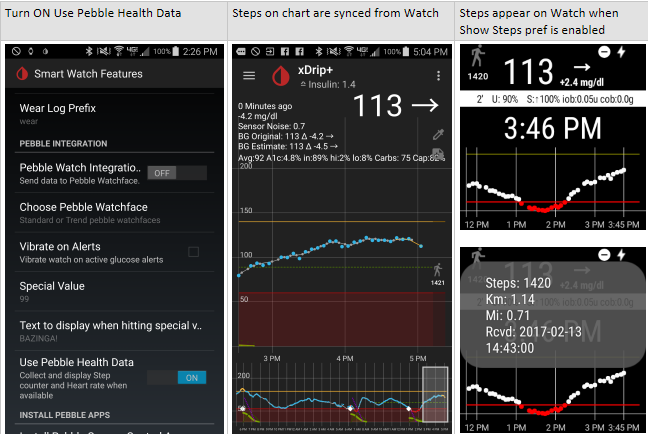
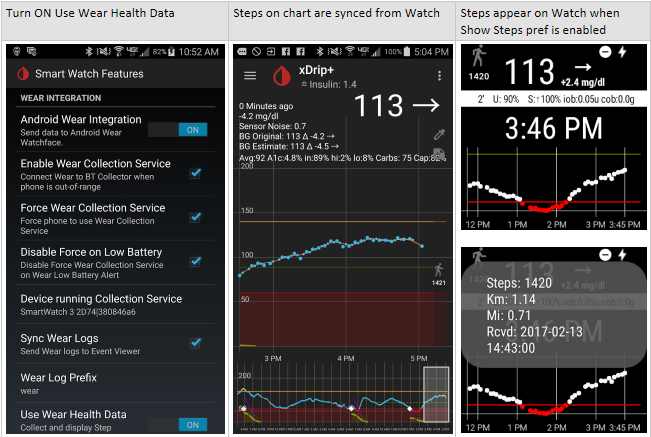
Fixes to sony.com.stepservice;Add Wear use_pebble_health pref on phone; add Steps, Carbs, Insulin, StdDev to History page.

diff --git a/wear/src/main/java/com/eveningoutpost/dexdrip/ListenerService.java b/wear/src/main/java/com/eveningoutpost/dexdrip/ListenerService.java
@@ -283,9 +283,6 @@ public class ListenerService extends WearableListenerService implements GoogleAp
                                                 sendMessagePayload(node, "SYNC_STEP_SENSOR_PATH", SYNC_STEP_SENSOR_PATH, datamap.toByteArray());
                                             }
                                         }
-                                        if (showSteps || sync_step_counter) {
-                                            resetCounters(true);//restart measurements on new day
-                                        }
                                         sendMessagePayload(node, "WEARABLE_RESEND_PATH", path, payload);
                                         break;
                                 }
@@ -305,6 +302,11 @@ public class ListenerService extends WearableListenerService implements GoogleAp
                         googleApiClient.connect();
                     } else {
                         googleApiConnect();
+                    }
+                }
+                if (showSteps || sync_step_counter) {
+                    if (JoH.ratelimit("step-sensor-restart", 60)) {
+                        restartMeasurement();//restart measurements on new day
                     }
                 }
                 return null;
@@ -1838,14 +1840,14 @@ public class ListenerService extends WearableListenerService implements GoogleAp
 
     private void setupStepSensor() {
         if (mPrefs.getBoolean("use_wear_health", false) || mPrefs.getBoolean("showSteps", false)) {
-            Log.d(TAG, "Start Step Counter Sensor");
+            Log.e(TAG, "Start Step Counter Sensor");
             //startService(new Intent(this, SensorService.class));
-            resetCounters(false);
+            resetCounters();
             stopMeasurement();
             startMeasurement();
         }
         else {
-            Log.d(TAG, "Stop Step Counter Sensor");
+            Log.e(TAG, "Stop Step Counter Sensor");
             //stopService(new Intent(this, SensorService.class));
             stopMeasurement();
         }
@@ -1854,26 +1856,24 @@ public class ListenerService extends WearableListenerService implements GoogleAp
         @Override
         public void onSensorChanged(SensorEvent event) {
             long t = System.currentTimeMillis();
-            long timeAgo = t - last_movement_timestamp;
 
             int type = event.sensor.getType();
             Log.d(TAG, "onSensorChanged Sensor " + type + " name = " + event.sensor.getStringType());
             Log.d(TAG, "onSensorChanged accuracy = " + event.accuracy);
-            Log.d(TAG, "onSensorChanged MaxDelay = " + event.sensor.getMaxDelay());
-            Log.d(TAG, "onSensorChanged t = " + t + " text = " + JoH.dateTimeText(t));
-            Log.d(TAG, "onSensorChanged last_movement_timestamp = " + last_movement_timestamp + " text = " + JoH.dateTimeText(last_movement_timestamp));
-            Log.d(TAG, "onSensorChanged timeAgo = " + timeAgo);
+            Log.e(TAG, "onSensorChanged MaxDelay = " + event.sensor.getMaxDelay());
+            Log.e(TAG, "onSensorChanged t = " + t + " text = " + JoH.dateTimeText(t));
+            Log.e(TAG, "onSensorChanged last_movement_timestamp = " + last_movement_timestamp + " text = " + JoH.dateTimeText(last_movement_timestamp));
 
             // Calculate the delay from when event was recorded until it was received here in ms
             // Event timestamp is recorded in us accuracy, but ms accuracy is sufficient here
             long delay = System.currentTimeMillis() - (event.timestamp / 1000000L);//Timestamp when sensor was registered
-            Log.d(TAG, "onSensorChanged delay = " + delay + " JoH.DateTimeText(delay) = " + JoH.dateTimeText(delay) + " (delay + (event.timestamp / 1000000L)) = " + delay + (event.timestamp / 1000000L) + " text= " + JoH.dateTimeText(delay + (event.timestamp / 1000000L)));
+            Log.e(TAG, "onSensorChanged delay = " + delay + " JoH.DateTimeText(delay) = " + JoH.dateTimeText(delay) + " (delay + (event.timestamp / 1000000L)) = " + delay + (event.timestamp / 1000000L) + " text= " + JoH.dateTimeText(delay + (event.timestamp / 1000000L)));
 
             PebbleMovement last = PebbleMovement.last();
             boolean sameDay = last != null ? isSameDay(t, last.timestamp) : false;
             if (!sameDay) {
                 initCounters();
-                Log.d(TAG, "onSensorChanged initCounters initCounters mSteps = " + mSteps + " mCounterSteps = " + mCounterSteps + " mPreviousCounterSteps = " + mPreviousCounterSteps + " last_movement_timestamp = " + last_movement_timestamp);
+                Log.e(TAG, "onSensorChanged initCounters initCounters mSteps = " + mSteps + " mCounterSteps = " + mCounterSteps + " mPreviousCounterSteps = " + mPreviousCounterSteps + " last_movement_timestamp = " + last_movement_timestamp);
             }
             if (mCounterSteps < 1) {
                 // initial value
@@ -1885,7 +1885,7 @@ public class ListenerService extends WearableListenerService implements GoogleAp
             // This is needed to keep the counter consistent across rotation changes.
             mSteps = mSteps + mPreviousCounterSteps;
             PersistentStore.setLong(pref_msteps, (long)mSteps);
-            Log.d(TAG, "onSensorChanged Total step count: " + mSteps + " mCounterSteps: " + mCounterSteps + " mPreviousCounterSteps: " + mPreviousCounterSteps + " event.values[0]: " + event.values[0]);// + " Delay: " + delayString);
+            Log.e(TAG, "onSensorChanged Total step count: " + mSteps + " mCounterSteps: " + mCounterSteps + " mPreviousCounterSteps: " + mPreviousCounterSteps + " event.values[0]: " + event.values[0]);
 
             if (last_movement_timestamp < t) {//KS BUG SW3 seems to set event.timestamp to time when sensor listener is registered
                 Log.d(TAG, "onSensorChanged Movement for mSteps: " + mSteps + " event.values[0]: " + event.values[0] +
@@ -1893,19 +1893,19 @@ public class ListenerService extends WearableListenerService implements GoogleAp
                         " received: " + JoH.dateTimeText(t) + " last_movement_timestamp: " + JoH.dateTimeText(last_movement_timestamp)
                 );
                 if (last_movement_timestamp == 0 || (sameDay && last != null && last.metric == mSteps)) {//skip initial movement or duplicate steps
-                    Log.d(TAG, "onSensorChanged Initial sensor movement! Skip initial movement record, or duplicate record. last.metric=" + (last != null ? last.metric : "null"));
+                    Log.e(TAG, "onSensorChanged Initial sensor movement! Skip initial movement record, or duplicate record. last.metric=" + (last != null ? last.metric : "null"));
                 }
                 else {
                     final PebbleMovement pm = PebbleMovement.createEfficientRecord(t, mSteps);//event.timestamp * 1000, (int) event.values[0]
-                    Log.d(TAG, "Saving Movement: " + pm.toS());
+                    Log.e(TAG, "Saving Movement: " + pm.toS());
                 }
                 last_movement_timestamp = t;
                 PersistentStore.setLong(pref_last_movement_timestamp, last_movement_timestamp);
-                Log.d(TAG, "onSensorChanged sendLocalMessage mSteps: " + mSteps + " t: " + JoH.dateTimeText(t) + " last_movement_timestamp: " + JoH.dateTimeText(last_movement_timestamp));
+                Log.e(TAG, "onSensorChanged sendLocalMessage mSteps: " + mSteps + " t: " + JoH.dateTimeText(t) + " last_movement_timestamp: " + JoH.dateTimeText(last_movement_timestamp));
                 sendSensorLocalMessage(mSteps, t);
             }
             else {
-                Log.d(TAG, "onSensorChanged last_movement_timestamp > t! Reset last_movement_timestamp to current time.");
+                Log.e(TAG, "onSensorChanged last_movement_timestamp > t! Reset last_movement_timestamp to current time.");
                 last_movement_timestamp = t;
                 PersistentStore.setLong(pref_last_movement_timestamp, last_movement_timestamp);
             }
@@ -1921,7 +1921,7 @@ public class ListenerService extends WearableListenerService implements GoogleAp
         curCal.setTimeInMillis(t);
         Calendar lastCal = Calendar.getInstance();
         lastCal.setTimeInMillis(last);
-        Log.d(TAG, "isSameDay Sensor curCal.DAY_OF_MONTH=" + curCal.get(Calendar.DAY_OF_MONTH) + " lastCal.DAY_OF_MONTH=" + lastCal.get(Calendar.DAY_OF_MONTH) + " t=" + JoH.dateTimeText(t) + " last.timestamp=" + JoH.dateTimeText(last) + " " + last);
+        Log.e(TAG, "isSameDay Sensor curCal.DAY_OF_MONTH=" + curCal.get(Calendar.DAY_OF_MONTH) + " lastCal.DAY_OF_MONTH=" + lastCal.get(Calendar.DAY_OF_MONTH) + " t=" + JoH.dateTimeText(t) + " last.timestamp=" + JoH.dateTimeText(last) + " " + last);
         if (curCal.get(Calendar.DAY_OF_MONTH) == lastCal.get(Calendar.DAY_OF_MONTH) &&
                 curCal.get(Calendar.YEAR) == lastCal.get(Calendar.YEAR) &&
                 curCal.get(Calendar.MONTH) == lastCal.get(Calendar.MONTH) ) {
@@ -1947,16 +1947,16 @@ public class ListenerService extends WearableListenerService implements GoogleAp
             if (stepCounterSensor != null) {
                 if (mPrefs.getBoolean("showSteps", false)) {
                     int delay = Integer.parseInt(mPrefs.getString("step_delay_time", "10"));
-                    Log.d(TAG, "startMeasurement delay " + delay + " seconds.");
-                    Log.d(TAG, "startMeasurement Event listener for step counter sensor registered with a max delay of " + delay + " seconds.");
-                    mSensorManager.registerListener(mListener, stepCounterSensor, SensorManager.SENSOR_DELAY_NORMAL, delay * BATCH_LATENCY_1s);
+                    Log.e(TAG, "startMeasurement delay " + delay + " seconds.");
+                    Log.e(TAG, "startMeasurement Event listener for step counter sensor registered with a max delay of " + delay + " seconds.");
+                    mSensorManager.registerListener(mListener, stepCounterSensor, SensorManager.SENSOR_DELAY_UI, delay * BATCH_LATENCY_1s);
                 }
                 else {
-                    Log.d(TAG, "startMeasurement Event listener for step counter sensor registered with a max delay of " + BATCH_LATENCY_400s);
+                    Log.e(TAG, "startMeasurement Event listener for step counter sensor registered with a max delay of " + BATCH_LATENCY_400s);
                     mSensorManager.registerListener(mListener, stepCounterSensor, SensorManager.SENSOR_DELAY_NORMAL, BATCH_LATENCY_400s);
                 }
             } else {
-                Log.d(TAG, "startMeasurement No Step Counter Sensor found");
+                Log.e(TAG, "startMeasurement No Step Counter Sensor found");
             }
         }
     }
@@ -1969,28 +1969,41 @@ public class ListenerService extends WearableListenerService implements GoogleAp
         }
     }
 
-    private void resetCounters(boolean startMeasurement) {
+    private void restartMeasurement() {
+        PebbleMovement last = PebbleMovement.last();
+        boolean sameDay = last != null ? ListenerService.isSameDay(System.currentTimeMillis(), last.timestamp) : false;
+        if (!sameDay) {
+            initCounters();
+            Log.e(TAG, "restartMeasurement Sensor isSameDay=false initCounters mSteps = " + mSteps + " mCounterSteps = " + mCounterSteps + " mPreviousCounterSteps = " + mPreviousCounterSteps + " last_movement_timestamp = " + JoH.dateTimeText(last_movement_timestamp));
+            stopMeasurement();
+            startMeasurement();
+        } else {
+            Log.e(TAG, "restartMeasurement Sensor isSameDay=true PersistentStore mSteps = " + mSteps + " mCounterSteps = " + mCounterSteps + " mPreviousCounterSteps = " + mPreviousCounterSteps + " last_movement_timestamp = " + JoH.dateTimeText(last_movement_timestamp));
+        }
+    }
+
+    private void resetCounters() {
         //initCounters();
         mSteps = (int) PersistentStore.getLong(pref_msteps);
         last_movement_timestamp = (int) PersistentStore.getLong(pref_last_movement_timestamp);
-        Log.d(TAG, "resetCounters Sensor Enter PersistentStore mSteps = " + mSteps + " mCounterSteps = " + mCounterSteps + " mPreviousCounterSteps = " + mPreviousCounterSteps + " last_movement_timestamp = " + JoH.dateTimeText(last_movement_timestamp));
+        Log.e(TAG, "resetCounters Sensor Enter PersistentStore mSteps = " + mSteps + " mCounterSteps = " + mCounterSteps + " mPreviousCounterSteps = " + mPreviousCounterSteps + " last_movement_timestamp = " + JoH.dateTimeText(last_movement_timestamp));
 
         PebbleMovement last = PebbleMovement.last();
         boolean sameDay = last != null ? ListenerService.isSameDay(System.currentTimeMillis(), last.timestamp) : false;
         if (!sameDay) {
             initCounters();
-            Log.d(TAG, "resetCounters Sensor isSameDay=false initCounters mSteps = " + mSteps + " mCounterSteps = " + mCounterSteps + " mPreviousCounterSteps = " + mPreviousCounterSteps + " last_movement_timestamp = " + JoH.dateTimeText(last_movement_timestamp));
-            if (startMeasurement) {
-                stopMeasurement();
-                startMeasurement();
-            }
+            Log.e(TAG, "resetCounters Sensor isSameDay=false initCounters mSteps = " + mSteps + " mCounterSteps = " + mCounterSteps + " mPreviousCounterSteps = " + mPreviousCounterSteps + " last_movement_timestamp = " + JoH.dateTimeText(last_movement_timestamp));
         } else {
+            mCounterSteps = 0;
             mPreviousCounterSteps = mSteps;
-            Log.d(TAG, "resetCounters Sensor isSameDay=true PersistentStore mSteps = " + mSteps + " mCounterSteps = " + mCounterSteps + " mPreviousCounterSteps = " + mPreviousCounterSteps + " last_movement_timestamp = " + JoH.dateTimeText(last_movement_timestamp));
+            Log.e(TAG, "resetCounters Sensor isSameDay=true PersistentStore mSteps = " + mSteps + " mCounterSteps = " + mCounterSteps + " mPreviousCounterSteps = " + mPreviousCounterSteps + " last_movement_timestamp = " + JoH.dateTimeText(last_movement_timestamp));
         }
     }
 
-    private void initCounters() {
+    private synchronized void initCounters() {
+        long t = System.currentTimeMillis();
+        final PebbleMovement pm = PebbleMovement.createEfficientRecord(t, 0);
+        Log.e(TAG, "initCounters Saving First Movement: " + pm.toS() + " at midnight t=" + JoH.dateTimeText(t));
         mSteps = 0;
         mCounterSteps = 0;
         mPreviousCounterSteps = 0;
@@ -2006,12 +2019,12 @@ public class ListenerService extends WearableListenerService implements GoogleAp
     //Log all available sensors to logcat
     private void logAvailableSensors() {
         final List<android.hardware.Sensor> sensors = mSensorManager.getSensorList(android.hardware.Sensor.TYPE_ALL);
-        Log.d(TAG, "=== LIST AVAILABLE SENSORS ===");
-        Log.d(TAG, String.format(Locale.getDefault(), "|%-35s|%-38s|%-6s|", "SensorName", "StringType", "Type"));
+        Log.e(TAG, "=== LIST AVAILABLE SENSORS ===");
+        Log.e(TAG, String.format(Locale.getDefault(), "|%-35s|%-38s|%-6s|", "SensorName", "StringType", "Type"));
         for (android.hardware.Sensor sensor : sensors) {
             Log.v(TAG, String.format(Locale.getDefault(), "|%-35s|%-38s|%-6s|", sensor.getName(), sensor.getStringType(), sensor.getType()));
         }
-        Log.d(TAG, "=== LIST AVAILABLE SENSORS ===");
+        Log.e(TAG, "=== LIST AVAILABLE SENSORS ===");
     }
 
     @Override

diff --git a/app/src/main/java/com/eveningoutpost/dexdrip/stats/StatsResult.java b/app/src/main/java/com/eveningoutpost/dexdrip/stats/StatsResult.java
@@ -10,6 +10,7 @@ import com.activeandroid.Cache;
 import com.eveningoutpost.dexdrip.UtilityModels.Constants;
 
 import java.text.DecimalFormat;
+import java.util.List;
 
 /**
  * Created by adrian on 23/01/16.
@@ -19,7 +20,14 @@ public class StatsResult {
     private final int in;
     private final int below;
     private final int above;
-    private int total_carbs = -1;
+    private int a1c_ifcc;
+    private double a1c_dcct;
+    private double median;
+    private double mean;
+    private double stdev;
+    private double total_carbs = -1;
+    private double total_insulin = -1;
+    private int total_steps = -1;
     private final double avg;
     private final boolean mgdl;
     private final long from;
@@ -74,13 +82,21 @@ public class StatsResult {
             avg = 0;
         }
 
+        if(getTotalReadings() > 0){
+            cursor= db.rawQuery("select ((count(*)*(sum(calculated_value * calculated_value)) - (sum(calculated_value)*sum(calculated_value)) )/((count(*)-1)*(count(*))) ) from bgreadings  where timestamp >= " + from + " AND timestamp <= " + to + " AND calculated_value > " + DBSearchUtil.CUTOFF + " AND snyced == 0", null);
+            cursor.moveToFirst();
+            stdev = cursor.getDouble(0);
+            stdev = Math.sqrt(stdev);
+            cursor.close();
+        } else {
+            stdev = 0;
+        }
+
         possibleCaptures = (to - from) / (5*60*1000);
         //while already in the next 5 minutes, a package could already have arrived.
         if ((to - from) % (5*60*1000) != 0) possibleCaptures += 1;
 
     }
-
-
 
     public int getAbove() {
         return above;
@@ -98,14 +114,40 @@ public class StatsResult {
         return in;
     }
 
-    public int getTotal_carbs() {
+    public double getTotal_carbs() {
         if (total_carbs < 0) {
             Cursor cursor = Cache.openDatabase().rawQuery("select sum(carbs) from treatments  where timestamp >= " + from + " AND timestamp <= " + to, null);
             cursor.moveToFirst();
-            total_carbs = cursor.getInt(0);
+            total_carbs = cursor.getDouble(0);
             cursor.close();
         }
         return total_carbs;
+    }
+
+    public double getTotal_insulin() {
+        if (total_insulin < 0) {
+            Cursor cursor = Cache.openDatabase().rawQuery("select sum(insulin) from treatments  where timestamp >= " + from + " AND timestamp <= " + to, null);
+            cursor.moveToFirst();
+            total_insulin = cursor.getDouble(0);
+            cursor.close();
+        }
+        return total_insulin;
+    }
+
+    public int getTotal_steps() {
+        if (total_steps < 0) {
+            Cursor cursor = Cache.openDatabase().rawQuery("select sum(t.metric)\n" +
+                    "from PebbleMovement t\n" +
+                    "inner join (\n" +
+                    "    select metric, max(timestamp) as MaxDate\n" +
+                    "    from PebbleMovement\n" +
+                    "    group by date(timestamp/1000,'unixepoch','localtime') \n" +
+                    ") tm on t.metric = tm.metric and t.timestamp = tm.MaxDate  where timestamp >= " + from + " AND timestamp <= " + to, null);
+            cursor.moveToFirst();
+            total_steps = cursor.getInt(0);
+            cursor.close();
+        }
+        return total_steps;
     }
 
     public int getTotalReadings(){
@@ -144,6 +186,12 @@ public class StatsResult {
         if(getTotalReadings()==0) return "Avg:?";
         if(mgdl) return "Avg:" + Math.round(avg);
         return "Avg:" + (new DecimalFormat("#.0")).format(avg*Constants.MGDL_TO_MMOLL);
+    }
+
+    public String getStdevUnitised(){
+        if(getTotalReadings()==0) return "sd:?";
+        if(mgdl) return "sd:" + (Math.round(stdev * 10) / 10d);
+        return "sd:" + (new DecimalFormat("#.0")).format((Math.round(stdev * Constants.MGDL_TO_MMOLL * 100) / 100d));
     }
 
     public int getCapturePercentage() {

diff --git a/app/src/main/java/com/eveningoutpost/dexdrip/BGHistory.java b/app/src/main/java/com/eveningoutpost/dexdrip/BGHistory.java
@@ -21,6 +21,7 @@ import com.eveningoutpost.dexdrip.stats.StatsResult;
 import com.eveningoutpost.dexdrip.utils.ActivityWithMenu;
 
 import java.text.DateFormat;
+import java.text.DecimalFormat;
 import java.util.Calendar;
 import java.util.Date;
 import java.util.GregorianCalendar;
@@ -185,6 +186,28 @@ public class BGHistory extends ActivityWithMenu {
             sb.append(statsResult.getHighPercentage());
             sb.append(' ');
             sb.append(statsResult.getLowPercentage());
+            sb.append(' ');
+            sb.append(statsResult.getStdevUnitised());
+            DecimalFormat df = new DecimalFormat(getResources().getString(R.string.format_decimal_treatments));
+            if (Home.getPreferencesBoolean("status_line_carbs", true)) {
+                sb.append('\n');
+                double insulin = statsResult.getTotal_insulin();
+                sb.append(getResources().getString(R.string.label_show_insulin, df.format(insulin)));
+                sb.append(' ');
+                double carbs = statsResult.getTotal_carbs();
+                sb.append(getResources().getString(R.string.label_show_carbs, df.format(carbs)));
+            }
+            if (Home.getPreferencesBoolean("use_pebble_health", true)) {
+                sb.append('\n');
+                int steps = statsResult.getTotal_steps();
+                sb.append(getResources().getString(R.string.label_show_steps, steps));
+                if (steps > 0) {
+                    Double km = (((double) steps) / 2000.0d) * 1.6d;
+                    Double mi = (((double) steps) / 2000.0d) * 1.0d;
+                    sb.append((km > 0.0 ? " " + getResources().getString(R.string.label_show_steps_km, df.format(km)) : "") +
+                            (mi > 0.0 ? " " + getResources().getString(R.string.label_show_steps_mi, df.format(mi)) : ""));
+                }
+            }
             sb.append('\n');
             sb.append(statsResult.getCapturePercentage(true));
             sb.append(' ');

diff --git a/Documentation/WatchGuide.md b/Documentation/WatchGuide.md
@@ -170,8 +170,9 @@ The following image shows xDrip+ app Battery Alert under **Extra Alerts (xDrip+)
 
 ####XDrip Watchface Settings
 The following new preferences are supported:
-  - Show Steps - Show Step Counter on all XDrip watchfaces.  Steps reset to 0 at midnight. To enable xDrip+ synchronization, you must switch **Use Pebble Health Data** on under xDrip+ **Smart Watch Features**. When enabled, wear steps will be synced to xDrip+.
-  - Step Delay - Select time delay from the list preferences.  Defaults to 10 seconds.  To conserve wear battery, select 5 minutes.
+  - Show Steps - Show Step Counter on all XDrip watchfaces.  Steps reset to 0 at midnight. To enable xDrip+ synchronization, you must switch **Use Wear Health Data** on under xDrip+ **Smart Watch Features**. When enabled, wear steps will be synced to xDrip+.
+  - Step Delay - Select time delay from the list preferences.  Step Delay is maximum reporting latency. Events are batched up until this "maximum" latency has lapsed. Once lapsed all batched up events will occur sequentially.
+  This is a way to save power consumption so that each event does not interrupt the processer. If you find 10 seconds uses too much power you can select a larger latency. This will of course effect the frequency at which the display of the steps is updated on the watch. Defaults to 10 seconds.  To conserve wear battery, select 5 minutes.
   - Show Status - Show Loop Status on the XDrip, XDrip(Large) and XDrip (BigChart)watchfaces.  This will display the HAPP status message containing Basal%, IOB, COB.
   - Opaque Card - Show notifications cards with opaque background.  This will allow cards to be read more easily in ambient mode.
   - Small Font - Fontsize of small text in status and delta time fields on the XDrip and XDrip(Large) watchfaces.
